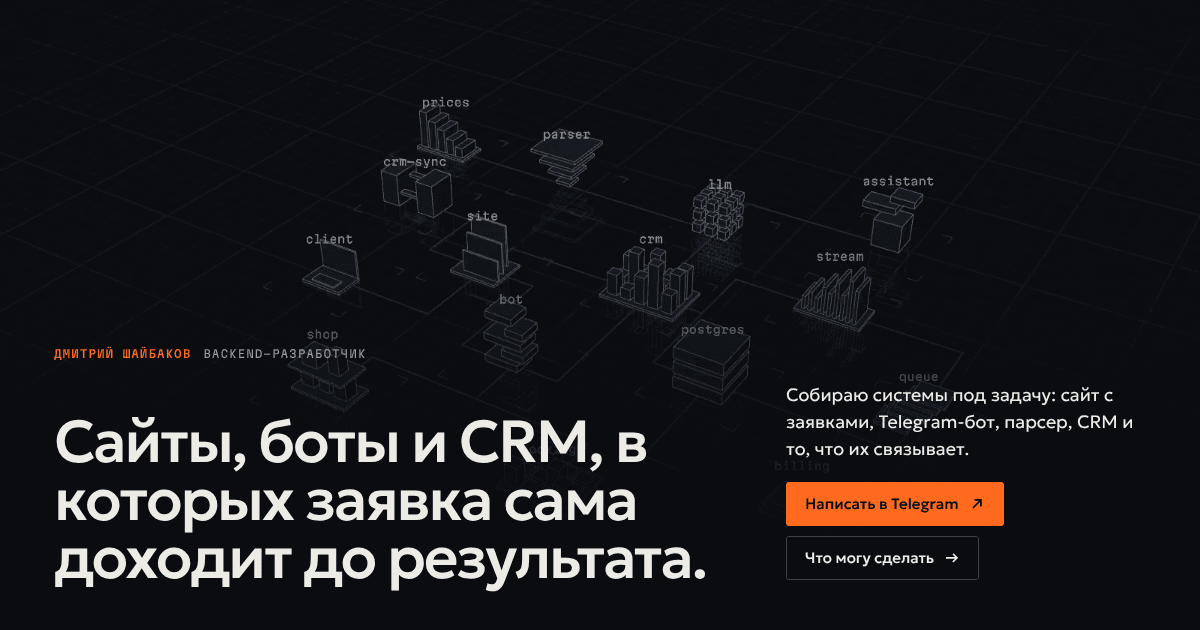
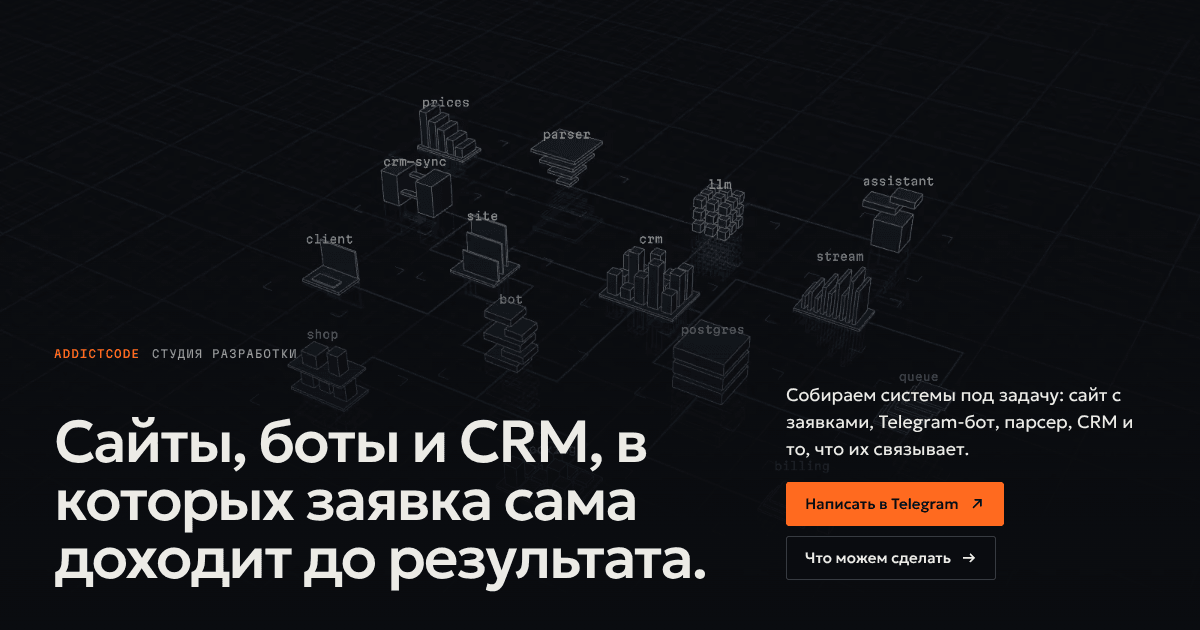
Сайт оформлен от лица студии addictcode: имя и фамилия убраны
- В шапке, на первом экране, в заголовке вкладки, og-тегах и noscript стоит название студии.
- Тексты переведены в первое лицо множественного числа: «собираем», «ответим», «наши проекты».
- Название студии лежит в src/content/profile.ts.
- OG-картинка переснята, README, BRIEF и CLAUDE.md обновлены.

Changed region(s): [[0.7092, 0.6032, 0.925, 0.6635], [0.0308, 0.5429, 0.3083, 0.573], [0.7092, 0.8746, 0.8325, 0.9048]]

diff --git a/src/content/ru.ts b/src/content/ru.ts
@@ -3,9 +3,9 @@ import type { Content } from './types'
 
 export const ru: Content = {
   meta: {
-    title: 'Дмитрий Шайбаков — сайты, Telegram-боты и CRM под задачу',
+    title: 'addictcode — сайты, Telegram-боты и CRM под задачу',
     description:
-      'Backend-разработчик. Сайты с админкой и заявками, Telegram-боты, парсеры и мониторинг, CRM и внутренние системы, интеграции с LLM.',
+      'Студия разработки. Сайты с админкой и заявками, Telegram-боты, парсеры и мониторинг, CRM и внутренние системы, интеграции с LLM.',
   },
   ui: {
     skip: 'К содержимому',
@@ -26,12 +26,11 @@ export const ru: Content = {
   },
   chapters: ['Начало', 'Сайт', 'Бот', 'CRM', 'Реальное время', 'Парсинг и LLM', 'Контакты', 'Запись', 'Магазин', 'Ассистент', 'Заявки в CRM', 'Цены', 'Кабинет'],
   hero: {
-    name: 'Дмитрий Шайбаков',
-    role: 'backend-разработчик',
+    role: 'студия разработки',
     title: 'Сайты, боты и CRM, в которых заявка сама доходит до результата.',
-    phrase: 'Собираю системы под задачу: сайт с заявками, Telegram-бот, парсер, CRM и то, что их связывает.',
-    cta: 'Что могу сделать',
-    hint: 'Узлы карты — мои проекты. Нажмите на любой.',
+    phrase: 'Собираем системы под задачу: сайт с заявками, Telegram-бот, парсер, CRM и то, что их связывает.',
+    cta: 'Что можем сделать',
+    hint: 'Узлы карты — наши проекты. Нажмите на любой.',
   },
   site: {
     kicker: 'Коммерческий заказ · в продакшене · без названия',
@@ -46,7 +45,7 @@ export const ru: Content = {
     more: 'Ещё: кабинет дилера с персональными ценами и выгрузкой в Excel, 301-редиректы со старых адресов, разметка schema.org, SSL Labs A+, ежедневная сверка цен с поставщиком с уведомлениями в Telegram.',
     stack: [{ label: 'Стек', value: 'Next.js 16, React 19, TypeScript, Tailwind 4' }],
     mock: {
-      caption: 'Схема нарисована кодом: название, домен и скриншоты не показываю. Поиск в ней работает, попробуйте набрать слово в английской раскладке.',
+      caption: 'Схема нарисована кодом: название, домен и скриншоты не показываем. Поиск в ней работает, попробуйте набрать слово в английской раскладке.',
       searchLabel: 'Поиск по каталогу',
       searchPlaceholder: 'ghbdjl',
       understood: 'понял как',
@@ -217,13 +216,13 @@ export const ru: Content = {
   },
   contact: {
     title: 'Соберём под вашу задачу',
-    lead: 'Напишите в Telegram, что нужно сделать. Отвечу, назову срок и стоимость.',
+    lead: 'Напишите в Telegram, что нужно сделать. Ответим, назовём срок и стоимость.',
     stackLabel: 'Стек',
     footer: 'Карта построена кодом на three.js.',
   },
   offer: {
-    title: 'Что могу сделать',
-    hint: 'Нажмите на услугу: покажу проект, где это уже работает.',
+    title: 'Что можем сделать',
+    hint: 'Нажмите на услугу: покажем проект, где это уже работает.',
     items: [
       { name: 'Сайт или лендинг с заявками', text: 'Заявки приходят в Telegram и на почту' },
       { name: 'Каталог с админкой', text: 'Фильтры, поиск, кабинет клиента, выгрузка в Excel' },

diff --git a/src/content/en.ts b/src/content/en.ts
@@ -3,9 +3,9 @@ import type { Content } from './types'
 
 export const en: Content = {
   meta: {
-    title: 'Dmitry Shaibakov — websites, Telegram bots and CRM built to fit',
+    title: 'addictcode — websites, Telegram bots and CRM built to fit',
     description:
-      'Backend developer. Websites with admin panels and lead forms, Telegram bots, scrapers and monitoring, CRM and internal systems, LLM integrations.',
+      'Development studio. Websites with admin panels and lead forms, Telegram bots, scrapers and monitoring, CRM and internal systems, LLM integrations.',
   },
   ui: {
     skip: 'Skip to content',
@@ -26,12 +26,11 @@ export const en: Content = {
   },
   chapters: ['Start', 'Website', 'Bot', 'CRM', 'Real time', 'Scraping & LLM', 'Contact', 'Booking', 'Shop', 'Assistant', 'Leads to CRM', 'Prices', 'Account'],
   hero: {
-    name: 'Dmitry Shaibakov',
-    role: 'backend developer',
+    role: 'development studio',
     title: 'Websites, bots and CRM where a request reaches the result on its own.',
-    phrase: 'I build systems to fit the task: a website with lead forms, a Telegram bot, a scraper, a CRM and whatever connects them.',
-    cta: 'What I can build',
-    hint: 'The map nodes are my projects. Click any of them.',
+    phrase: 'We build systems to fit the task: a website with lead forms, a Telegram bot, a scraper, a CRM and whatever connects them.',
+    cta: 'What we can build',
+    hint: 'The map nodes are our projects. Click any of them.',
   },
   site: {
     kicker: 'Commercial project · in production · client not named',
@@ -56,7 +55,7 @@ export const en: Content = {
     },
   },
   bot: {
-    kicker: 'Open source · built for my own reselling',
+    kicker: 'Open source · built for in-house reselling',
     title: 'Vinted Telegram Bot',
     lead: 'Watches saved Vinted searches and sends new listings within seconds.',
     facts: [
@@ -166,7 +165,7 @@ export const en: Content = {
     form: {
       legend: 'Request',
       name: 'Name',
-      namePlaceholder: 'What should I call you',
+      namePlaceholder: 'What should we call you',
       need: 'What you need',
       needs: ['Website with lead forms', 'Telegram bot', 'CRM or internal system', 'Scraper or monitoring'],
       budget: 'Budget',
@@ -204,7 +203,7 @@ export const en: Content = {
     done: 'The request went all the way. In a real project a bot, a database and charts would be working here.',
   },
   skills: {
-    title: 'What I build with',
+    title: 'What we build with',
     lead: 'Tools from the projects above.',
     groups: [
       { name: 'Backend', items: ['Java 17–25', 'Spring Boot 3–4'] },
@@ -217,13 +216,13 @@ export const en: Content = {
   },
   contact: {
     title: 'Let’s build one for your task',
-    lead: 'Tell me on Telegram what needs to be done. I will reply with a timeline and a price.',
+    lead: 'Tell us on Telegram what needs to be done. We will reply with a timeline and a price.',
     stackLabel: 'Stack',
     footer: 'The map is built in code with three.js.',
   },
   offer: {
-    title: 'What I can build',
-    hint: 'Click a service: I will show the project where it already works.',
+    title: 'What we can build',
+    hint: 'Click a service: we will show the project where it already works.',
     items: [
       { name: 'Website or landing page with lead forms', text: 'Requests arrive in Telegram and by email' },
       { name: 'Catalogue with an admin panel', text: 'Filters, search, client account, Excel export' },

diff --git a/index.html b/index.html
@@ -3,10 +3,10 @@
   <head>
     <meta charset="UTF-8" />
     <meta name="viewport" content="width=device-width, initial-scale=1" />
-    <title>Дмитрий Шайбаков — сайты, Telegram-боты и CRM под задачу</title>
+    <title>addictcode — сайты, Telegram-боты и CRM под задачу</title>
     <meta
       name="description"
-      content="Backend-разработчик. Сайты с админкой и заявками, Telegram-боты, парсеры и мониторинг, CRM и внутренние системы, интеграции с LLM."
+      content="Студия разработки. Сайты с админкой и заявками, Telegram-боты, парсеры и мониторинг, CRM и внутренние системы, интеграции с LLM."
     />
     <meta name="theme-color" content="#0a0c0f" />
     <meta name="color-scheme" content="dark" />
@@ -18,8 +18,8 @@
     <link rel="preload" as="image" href="/posters/chapter-0-m.avif" type="image/avif" media="(max-width: 1099px)" fetchpriority="high" />
     <meta property="og:type" content="website" />
     <meta property="og:url" content="https://addictcode.github.io/" />
-    <meta property="og:site_name" content="Дмитрий Шайбаков" />
-    <meta property="og:title" content="Дмитрий Шайбаков — сайты, Telegram-боты и CRM под задачу" />
+    <meta property="og:site_name" content="addictcode" />
+    <meta property="og:title" content="addictcode — сайты, Telegram-боты и CRM под задачу" />
     <meta
       property="og:description"
       content="Сайты с админкой и заявками, Telegram-боты, парсеры, CRM и интеграции с LLM."
@@ -36,7 +36,7 @@
     <div id="root"></div>
     <noscript>
       <p style="padding: 24px; font-family: sans-serif; color: #ecebe6">
-        Дмитрий Шайбаков, backend-разработчик. Для просмотра сайта включите JavaScript. GitHub:
+        addictcode, студия разработки. Для просмотра сайта включите JavaScript. GitHub:
         <a href="https://github.com/addictcode">github.com/addictcode</a>
       </p>
     </noscript>

diff --git a/src/components/Header.tsx b/src/components/Header.tsx
@@ -1,5 +1,5 @@
 import { chapterIds, languages } from '../content'
-import { telegramUrl } from '../content/profile'
+import { profile, telegramUrl } from '../content/profile'
 import { useLang } from '../i18n/LangContext'
 import { emit } from '../system/bus'
 import { FIRST_LAB_CHAPTER } from '../system/graph'
@@ -20,7 +20,7 @@ export function Header() {
   return (
     <header className="topbar">
       <a className="topbar__brand" href="#/" data-log="off">
-        {t.hero.name}
+        {profile.studio}
       </a>
       <nav className="topbar__nav mono" aria-label={t.ui.projects}>
         <ol>

diff --git a/src/content/profile.ts b/src/content/profile.ts
@@ -1,5 +1,6 @@
-/** Контакты владельца. Telegram-ник меняется только здесь. */
+/** Название студии и контакты. Название и Telegram-ник меняются только здесь. */
 export const profile = {
+  studio: 'addictcode',
   telegram: 'heaphog',
   github: 'addictcode',
 } as const

diff --git a/src/components/Home.tsx b/src/components/Home.tsx
@@ -68,7 +68,7 @@ export function Home() {
         <div className="chapter__window" aria-hidden="true" />
         <div className="chapter__body">
           <p className="eyebrow mono">
-            <b>{t.hero.name}</b>
+            <b>{profile.studio}</b>
             <span>{t.hero.role}</span>
           </p>
           <h1 id="intro-title">{t.hero.title}</h1>

diff --git a/src/content/lab.en.ts b/src/content/lab.en.ts
@@ -72,7 +72,7 @@ export const labEn: typeof labRu = {
   crm: {
     form: 'Request',
     name: 'Name',
-    namePlaceholder: 'What should I call you',
+    namePlaceholder: 'What should we call you',
     source: 'Source',
     sources: ['Website', 'Telegram bot'],
     submit: 'Send request',

diff --git a/src/content/types.ts b/src/content/types.ts
@@ -45,7 +45,6 @@ export interface Content {
   /** названия глав: подписи в навигации */
   chapters: string[]
   hero: {
-    name: string
     role: string
     title: string
     phrase: string

diff --git a/BRIEF.md b/BRIEF.md
@@ -2,17 +2,17 @@
 
 > Концепт и оформление пересмотрены владельцем четыре раза: после «Конвейера», «Кубиков» и «Ленты» сделана «Живая система», затем она сокращена. Актуальные требования владельца: серьёзно, но необычно; тёмная гамма с одним акцентом; минимализм и минимум текста; на главной только вступление, карта и краткая сводка того, что можно заказать; подробности о проектах — на отдельных страницах, если посетитель сам их открыл. Город и учёба на сайте не указываются. Разделы «Концепт», «Страницы», «Услуги», «Дизайн» и «Техника» ниже описывают актуальную версию, факты о кейсах не менялись.
 
-Личный сайт-визитка Дмитрия Шайбакова (Минск). Цель: показывать фриланс-заказчикам (сайты, Telegram-боты, автоматизация, CRM) и рекрутерам. Сайт должен запоминаться за счёт 3D и моушена, но быстро грузиться на телефоне и не выглядеть шаблонно.
+Сайт-портфолио мини-студии разработки addictcode (владелец и двое разработчиков, которые ему помогают). Цель: показывать фриланс-заказчикам (сайты, Telegram-боты, автоматизация, CRM) и рекрутерам. Сайт должен запоминаться за счёт 3D и моушена, но быстро грузиться на телефоне и не выглядеть шаблонно.
 
-## О владельце (что можно писать)
+## О студии (что можно писать)
 
-- Дмитрий Шайбаков / Dmitry Shaibakov. Backend-разработчик. Город и учёбу на сайте не указывать.
+- Сайт оформлен от лица студии: название `addictcode`, подпись «студия разработки», тексты от первого лица во множественном числе («собираем», «ответим»). Имён и фамилий участников на сайте нет, город и учёба не указываются. Число участников и их роли на сайте не называются.
 - Делает: сайты с админкой и заявками, Telegram-ботов, парсеры и мониторинг, CRM и внутренние системы, интеграции с LLM.
 - Стек: Java 17–25, Spring Boot 3–4, PostgreSQL, Redis, Docker, GitHub Actions; TypeScript, React, Next.js, Vite; Python (FastAPI, aiogram); three.js.
 - GitHub: https://github.com/addictcode
 - Telegram: @heaphog. Ник лежит в `src/content/profile.ts`, ссылка `https://t.me/<ник>` собирается из этого поля.
 
-Нельзя упоминать: место работы, рабочую почту, любой email, названия клиентов (см. «Кейсы»).
+Нельзя упоминать: имена и фамилии участников, место работы, рабочую почту, любой email, названия клиентов (см. «Кейсы»).
 
 ## Концепт
 

diff --git a/README.md b/README.md
@@ -1,6 +1,6 @@
 # Портфолио «Живая система»
 
-Личный сайт Дмитрия Шайбакова. Трёхмерная карта системы занимает весь экран: на первом экране под ней крупный заголовок, ниже услуги подписаны прямо у узлов карты. Клик по узлу показывает карточку проекта, полный разбор каждого проекта лежит на отдельной странице. Адрес: https://addictcode.github.io
+Сайт-портфолио мини-студии разработки addictcode. Трёхмерная карта системы занимает весь экран: на первом экране под ней крупный заголовок, ниже услуги подписаны прямо у узлов карты. Клик по узлу показывает карточку проекта, полный разбор каждого проекта лежит на отдельной странице. Адрес: https://addictcode.github.io
 
 Стек: Vite, React, TypeScript, three.js через `@react-three/fiber`.
 
@@ -33,7 +33,8 @@ npm run lint
 | Список услуг на главной | `offer` в `ru.ts` / `en.ts`; у какого узла подписана услуга — `NODE_OFFERS` в `src/system/graph.ts` |
 | Тексты демо-прототипов | `src/content/lab.ru.ts` и `lab.en.ts`; цены и расписание — `src/content/demoData.ts`; сами прототипы — `src/lab/` |
 | Какой проект открывает узел карты | `NODE_CHAPTER` в `src/system/graph.ts` |
-| Имя и заголовок первого экрана | `hero` в `ru.ts` / `en.ts` |
+| Название студии | `src/content/profile.ts`, поле `studio`; ещё оно стоит в `index.html` (title, og-теги, noscript) и в `meta.title` в `ru.ts` / `en.ts` |
+| Заголовок первого экрана | `hero` в `ru.ts` / `en.ts` |
 
 В компонентах текстов нет: всё лежит в `src/content/`. Структура описана типом `Content` в `src/content/types.ts`, поэтому забытый перевод не пройдёт проверку типов.
 

diff --git a/CLAUDE.md b/CLAUDE.md
@@ -1,6 +1,6 @@
 # Правила проекта
 
-Личное портфолио Дмитрия Шайбакова. Полное задание в `BRIEF.md`: прочитай его целиком перед работой.
+Сайт-портфолио мини-студии разработки addictcode. Имён и фамилий участников на сайте, в README и в брифе нет. Полное задание в `BRIEF.md`: прочитай его целиком перед работой.
 
 ## Git
 - Автор коммитов только владелец: `git config user.name "Dmitry Shaibakov"` и `git config user.email "addictcode@users.noreply.github.com"`.
